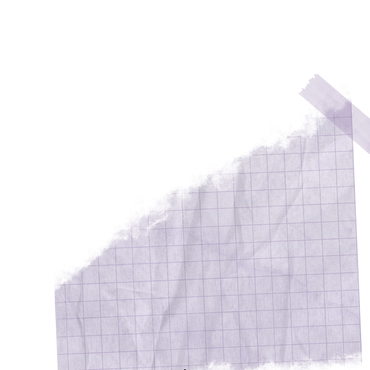
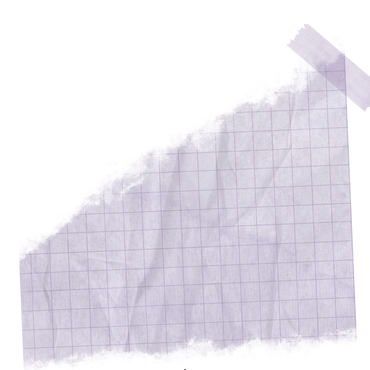
sva

diff --git a/index.html b/index.html
@@ -399,7 +399,12 @@
             width: fit-content;
             margin-top: 15px;
             margin-left: auto;
-            margin-right: 10px;
+            margin-right: 0;
+            background-image: url('images/services%20cart.png');
+            background-size: 100% 100%;
+            background-repeat: no-repeat;
+            padding: 50px 30px 40px 30px;
+            min-width: 280px;
         }
 
         .price-label {
